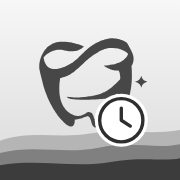
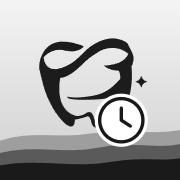
打卡圖示改為黑色系（App 圖示、網站圖示、分享縮圖）；臉部太近的限制放寬為畫面 70%

diff --git a/app.html b/app.html
@@ -4,12 +4,12 @@
 <meta charset="utf-8">
 <meta name="viewport" content="width=device-width, initial-scale=1">
 <title>新海打卡 App 下載</title>
-<link rel="icon" href="icon-kiosk.svg?v=2" type="image/svg+xml">
-<link rel="icon" href="icon-kiosk-512.png?v=2" type="image/png" sizes="512x512">
-<link rel="apple-touch-icon" href="apple-touch-icon-kiosk.png?v=2">
+<link rel="icon" href="icon-kiosk.svg?v=3" type="image/svg+xml">
+<link rel="icon" href="icon-kiosk-512.png?v=3" type="image/png" sizes="512x512">
+<link rel="apple-touch-icon" href="apple-touch-icon-kiosk.png?v=3">
 <meta property="og:title" content="新海打卡 App 下載">
 <meta property="og:description" content="新海美學牙醫診所員工系統">
-<meta property="og:image" content="https://shinyhi-dental.vercel.app/og-image-kiosk.png?v=2">
+<meta property="og:image" content="https://shinyhi-dental.vercel.app/og-image-kiosk.png?v=3">
 <meta property="og:type" content="website">
 <link rel="preconnect" href="https://fonts.googleapis.com">
 <link rel="preconnect" href="https://fonts.gstatic.com" crossorigin>

diff --git a/kiosk.html b/kiosk.html
@@ -6,12 +6,12 @@
 <meta name="theme-color" content="#16201B">
 <meta name="apple-mobile-web-app-capable" content="yes">
 <title>新海打卡</title>
-<link rel="icon" href="icon-kiosk.svg?v=2" type="image/svg+xml">
-<link rel="icon" href="icon-kiosk-512.png?v=2" type="image/png" sizes="512x512">
-<link rel="apple-touch-icon" href="apple-touch-icon-kiosk.png?v=2">
+<link rel="icon" href="icon-kiosk.svg?v=3" type="image/svg+xml">
+<link rel="icon" href="icon-kiosk-512.png?v=3" type="image/png" sizes="512x512">
+<link rel="apple-touch-icon" href="apple-touch-icon-kiosk.png?v=3">
 <meta property="og:title" content="新海打卡">
 <meta property="og:description" content="新海美學牙醫診所員工系統">
-<meta property="og:image" content="https://shinyhi-dental.vercel.app/og-image-kiosk.png?v=2">
+<meta property="og:image" content="https://shinyhi-dental.vercel.app/og-image-kiosk.png?v=3">
 <meta property="og:type" content="website">
 <link rel="preconnect" href="https://fonts.googleapis.com">
 <link rel="preconnect" href="https://fonts.gstatic.com" crossorigin>
